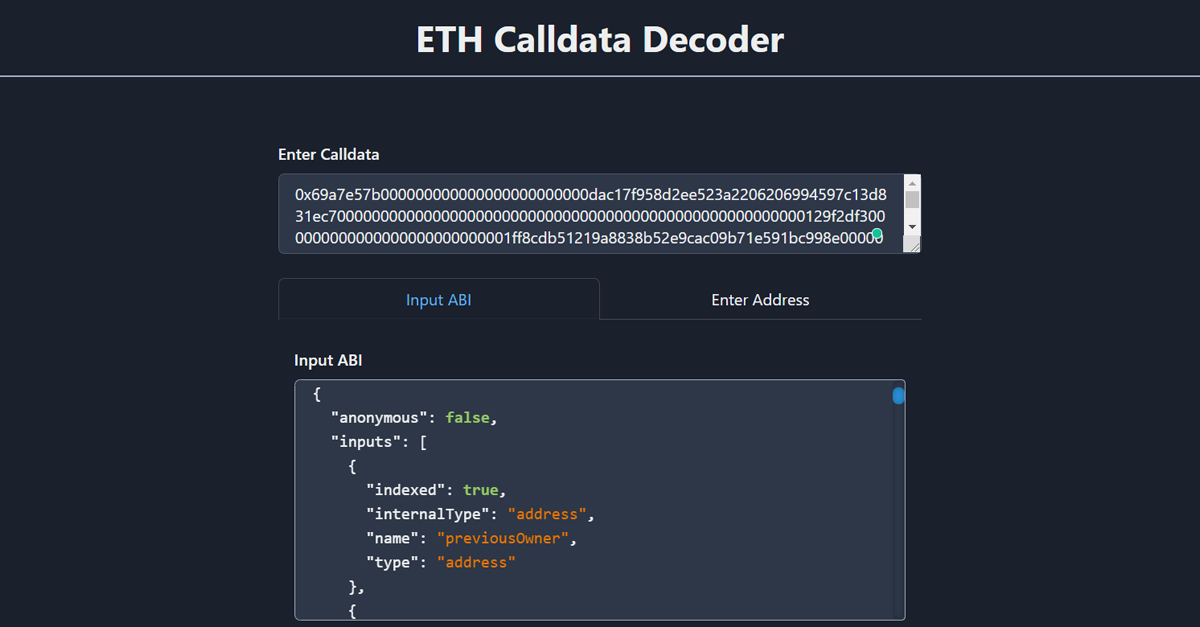
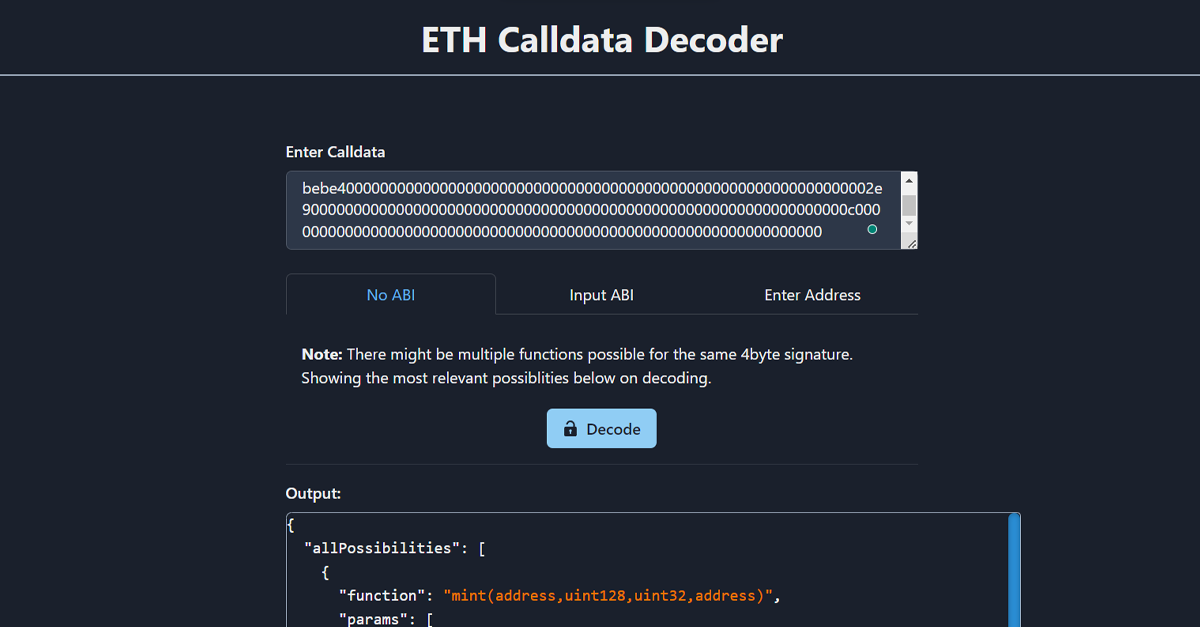
update description and metaIMG

diff --git a/public/index.html b/public/index.html
@@ -39,7 +39,7 @@
     <meta name="title" content="ETH Calldata decoder" />
     <meta
       name="description"
-      content="Easily decode Ethereum calldata with the contract address or custom ABI"
+      content="Easily decode Ethereum calldata with the contract address, custom ABI or without any ABI!"
     />
 
     <!-- Open Graph / Facebook -->
@@ -48,7 +48,7 @@
     <meta property="og:title" content="ETH Calldata decoder" />
     <meta
       property="og:description"
-      content="Easily decode Ethereum calldata with the contract address or custom ABI"
+      content="Easily decode Ethereum calldata with the contract address, custom ABI or without any ABI!"
     />
     <meta
       property="og:image"
@@ -64,7 +64,7 @@
     <meta property="twitter:title" content="ETH Calldata decoder" />
     <meta
       property="twitter:description"
-      content="Easily decode Ethereum calldata with the contract address or custom ABI"
+      content="Easily decode Ethereum calldata with the contract address, custom ABI or without any ABI!"
     />
     <meta
       property="twitter:image"
